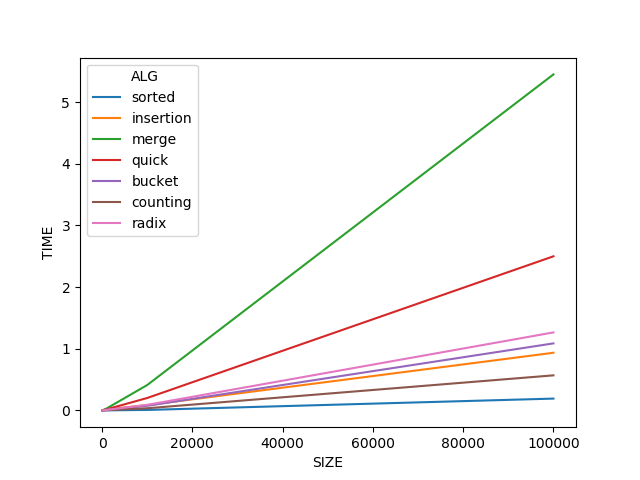
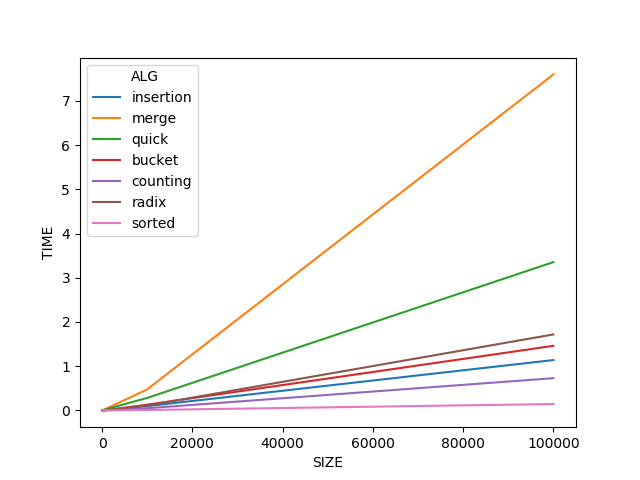
readme updated

diff --git a/sort.py b/sort.py
@@ -14,6 +14,7 @@
 from cmath import inf
 from itertools import count
 from random import randint
+from wsgiref.util import request_uri
 
 def bubble(array):
     """
@@ -33,6 +34,21 @@ def bubble(array):
         if array_sorted:
             break
     
+    return array
+
+def selection(array):
+    """
+    Selection sort
+        time: O(n^2) 
+        space: O(1)
+    """
+    N = len(array)
+    for i in range(N):
+        min_index = i
+        for j in range(i+1, N):
+            if array[j] < array[min_index]:
+                min_index = j
+        array[i], array[min_index] = array[min_index], array[i]
     return array
 
 
@@ -213,7 +229,7 @@ def _merge(left, right):
 
 # from random import randint
 # array = [randint(0, 100) for i in range(10)]
-# array = radix(array)
+# array = selection(array)
 # print(array)
 
 

diff --git a/compareSortAlg.py b/compareSortAlg.py
@@ -36,7 +36,7 @@ def run_sorting_algorithm(algorithm, array):
     return np.min(times)
 
 
-ALGORITHMS = ['sorted', 'insertion', 'merge', 'quick', 'bucket', 'counting', 'radix']
+ALGORITHMS = ['insertion', 'merge', 'quick', 'bucket', 'counting', 'radix', 'sorted']
 
 if __name__ == "__main__":
     times = []

diff --git a/README.md b/README.md
@@ -1,14 +1,29 @@
 # Implementation of famous sorting algorithms and comparing their performance
 
+## Selection Sort
+This sorting algorithm sorts an array by repeatedly finding the minimum element (considering ascending order) from the unsorted part and putting it at the beginning. 
+- Time complexity = O(n<sup>2</sup>)
+- Space complexity = O(1)
+- Useful when:
+    - the array is small.
+    - memory space is limited.
+
 ## Bubble Sort
 Bubble sort is the most basic sorting method, which in each pass compares all adjacent numbers and swap them if they are in the wrong order. For example, with the first pass the largest/smallest number will end up in the last index.
 - Time complexity = O(n<sup>2</sup>)
 - Space complexity = O(1)
+- Useful when:
+    - array is extremely small.
+    - array is early sorted set of data.
 
 ## Insertion Sort
 Insertion sort works similar to the sorting of playing cards in hands. It is assumed that the first card is already sorted in the card game, and then we select an unsorted card. If the selected unsorted card is greater than the first card, it will be placed at the right side; otherwise, it will be placed at the left side. Similarly, all unsorted cards are taken and put in their exact place.
 - Time complexity = O(n<sup>2</sup>)
 - Space complexity = O(1)
+- Useful when:
+    - the array is small or nearly sorted.
+    - memory space is limited.
+    - the elements compared equally need to retain their original order (stablity).
 
 ## Merge Sort
 Merge Sort is a divide and conquer algorithm. It works by recursively breaking down a problem into two or more sub-problems of the same or related type, until these become simple enough to be solved directly. The solutions to the sub-problems are then combined to give a solution to the original problem: 
@@ -18,29 +33,42 @@ Merge Sort is a divide and conquer algorithm. It works by recursively breaking d
 3. Merge the smaller lists into new list in sorted order.
 - Time complexity = O(n log(n))
 - Space complexity = O(n)
+- Useful for:
+    - linked lists which doesn’t support random access
+    - stable sorting
 
 ## Quick Sort
 Quicksort first selects a pivot element and partitions the list around the pivot, putting every smaller element into a low array and every larger element into a high array. Putting every element from the low list to the left of the pivot and every element from the high list to the right positions the pivot precisely where it needs to be in the final sorted list. This means that the function can now recursively apply the same procedure to low and then high until the entire list is sorted.
 - Time complexity - AVG = O(n log(n))
 - Space complexity = O(log (n))
+- Useful for:
+    - array that can fit in memory (i.e. not good for very large arrays)
 
 ## Bucket Sort
 As described in "Introduction to Algorithms" (CLRS book) Bucket sort runs in O(n) when input is drawn from a uniform distribution. The idea of bucket sort is to divide the interval [0, 1) into n equal-sized
 buckets, and then distribute the n input numbers into the buckets. Since the inputs are uniformly distributed over [0, 1), we don't expect many numbers to fall into each bucket. We then simply sort the numbers in each bucket and  go through the buckets in order, listing the elements in each.
 - Time complexity - AVG = O(n)
 - Space complexity = O(nk)
+- Useful for:
+    - arrays with uniformly distributed numbers.
 
 ## Counting Sort
 Counting sort is a sorting algorithm that sorts the elements of an array by counting the number of occurrences of each unique element in the array. The count is stored in an auxiliary array and the sorting is done by mapping the count as an index of the auxiliary array.
 
 - Time complexity = O(n * MAX)
 - Space complexity = O(MAX)
+- Useful for:
+    - arrays having a range of less than size of array
 
 ## Radix Sort
 Radix sort is an integer sorting algorithm that sorts data with integer keys by grouping the keys by individual digits that share the same significant position and value (place value). Radix sort uses counting sort as a subroutine to sort an array of numbers.
 
 - Time complexity = O(n * max_digit_num) 
 - Space complexity = O(n + max_digit_num)
+- Useful for:
+    - lexicographically sorting (strings)
+    - running algorithm on parallel machines
+    - stably sorting
 
 
 ## Performance comparison
